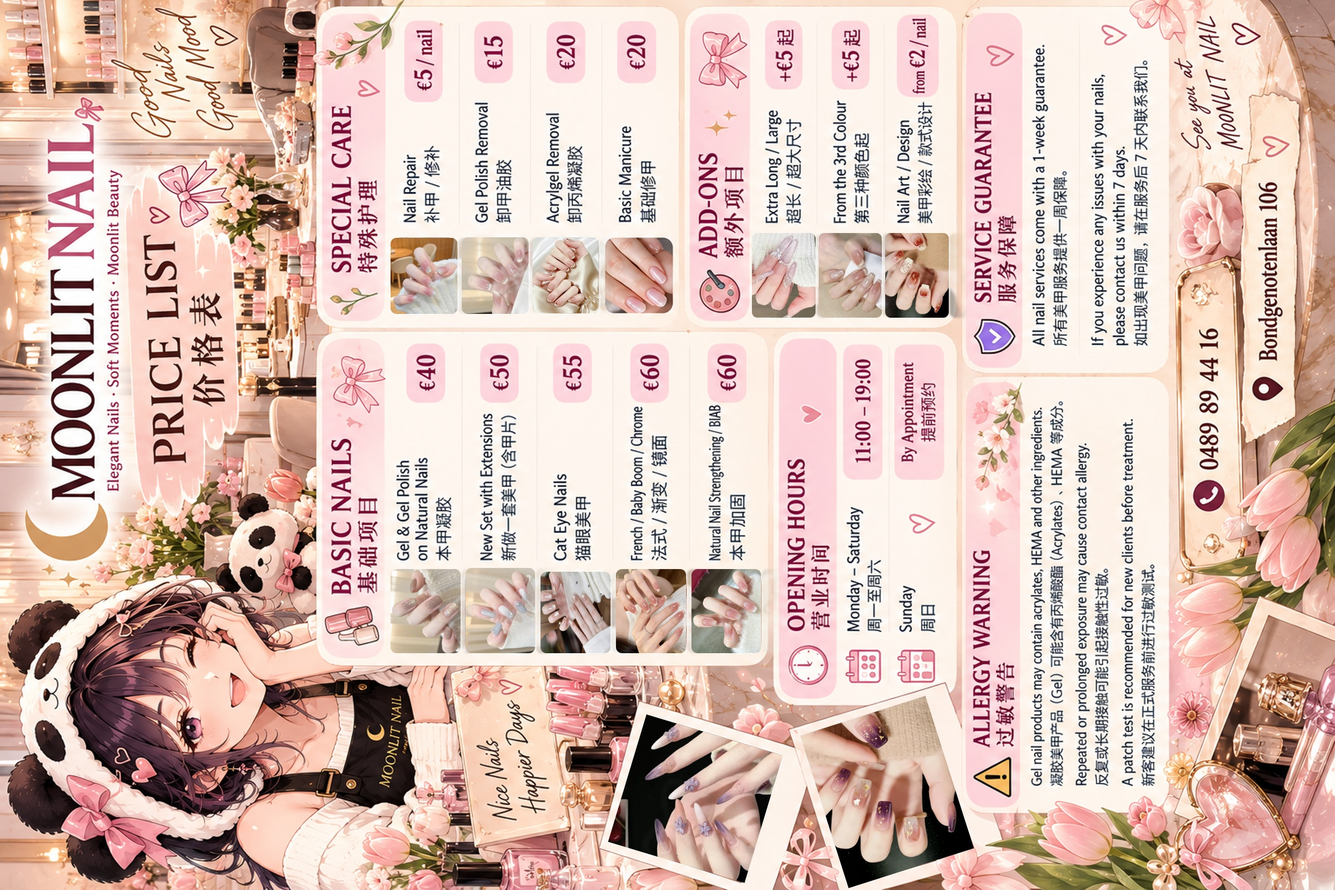
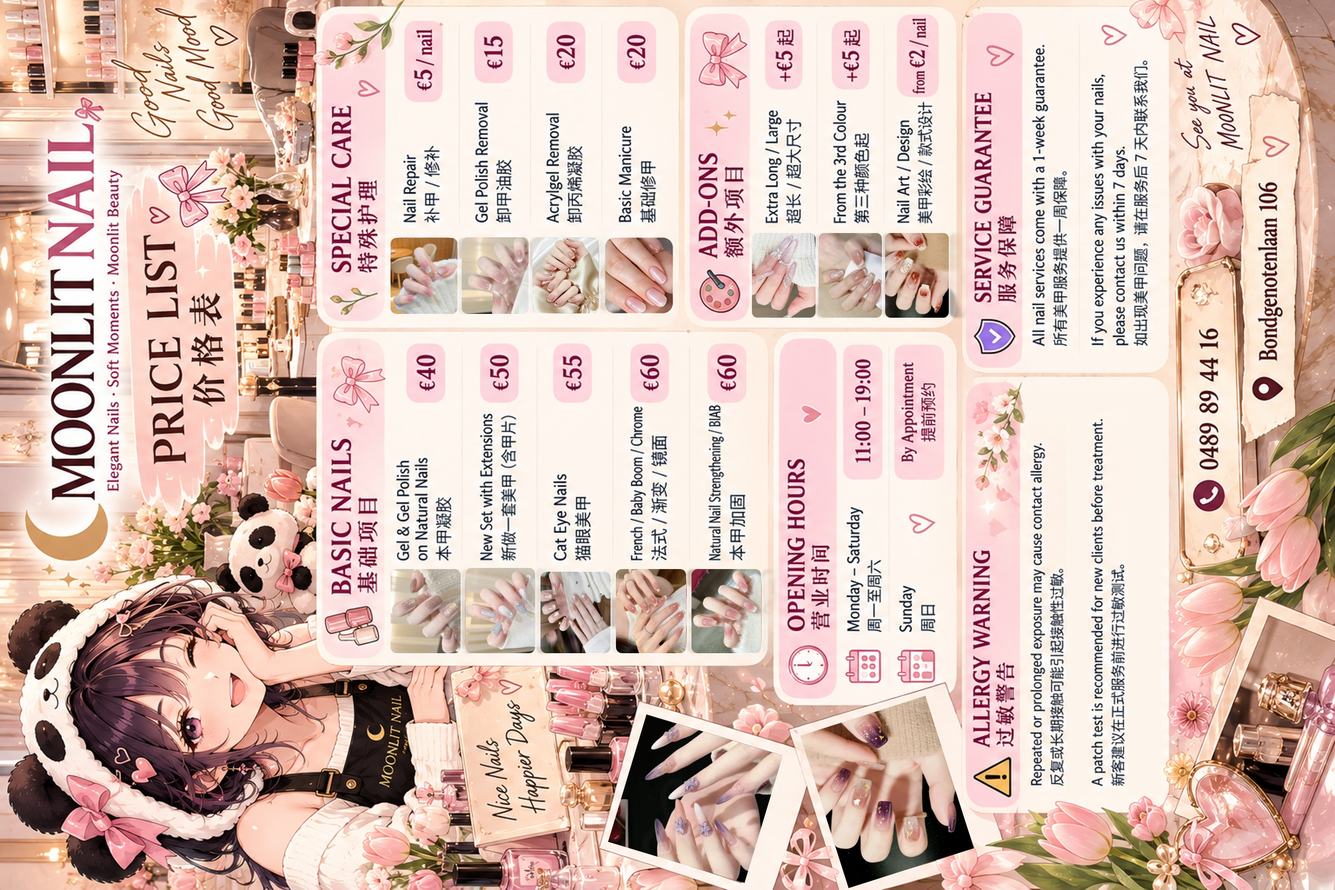
feat: 更新总海报1去除丙烯酸酯过敏文字并重排，升级缓存版本至v7

Changed region(s): [[0.7467, 0.4636, 0.8711, 0.8964]]

diff --git a/sw.js b/sw.js
@@ -12,7 +12,7 @@
 //
 // ⚠ 改了同名图片（比如覆盖 2.jpg）后如果没生效，把下面的 CACHE_VERSION 改个数字再部署。
 
-const CACHE_VERSION = 'v6';
+const CACHE_VERSION = 'v7';
 const CACHE_NAME = 'milk-tea-poster-' + CACHE_VERSION;
 
 // 首次安装时必须拿到的核心文件；任何一个失败就整体重试

diff --git a/README.md b/README.md
@@ -44,7 +44,7 @@ milk-tea-poster/
 | --- | --- |
 | 滚动速度 | **54 px/s**（原 36 的 1.5 倍） |
 | 当前海报数量 | **5 张**（1.jpg~5.jpg 全部横向统一步调） |
-| 缓存版本 | **v6** |
+| 缓存版本 | **v7** |
 
 
 改速度：打开 `index.html`，改最上面 `CONFIG.speedPxPerSec`（现在是 54，越小越慢）。
